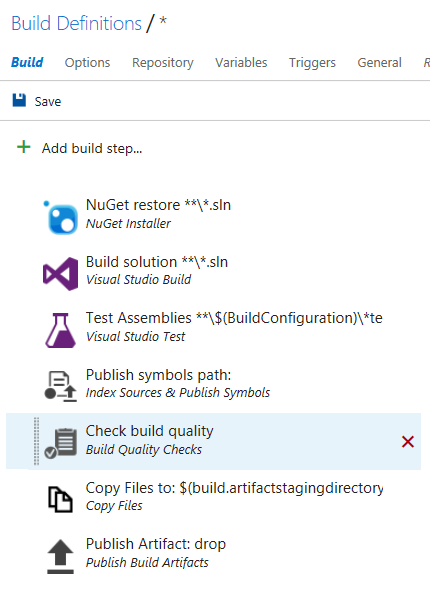
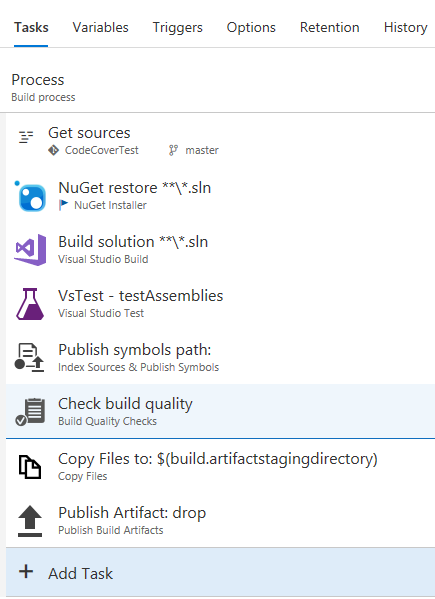
Update docs to v2.2.0

diff --git a/BuildQualityChecks/en-US/overview.md b/BuildQualityChecks/en-US/overview.md
@@ -43,6 +43,9 @@ last build that ran against the same branch as the current build. This behavior 
 
 ![Baseline Parameters](../assets/Baseline.png "Choosing baseline build definition and branch")
 
+- **Include Partially Succeeded Builds:** Uncheck this option, if policy values should only be compared to successful baseline builds.
+  In most cases, including partially succeeded builds is the best option, so you can use the default setting.
+
 - **Build Definition:** Select the build definition that should be used to search for the baseline build. If you do not set a value,
   the last build of the current build definition will be used when comparing policy values. If the drop-down list is empty, please
   click the refresh icon to reload the list of available build definitions. See

diff --git a/BuildQualityChecks/en-US/changeNotes.md b/BuildQualityChecks/en-US/changeNotes.md
@@ -2,6 +2,15 @@
 
 # Build Quality Checks - Change Notes
 
+#### 2.2.0
+- Added an option to prevent comparing policy values to partially succeeded builds.
+- Added variables to configure waiting behavior for code coverage data.
+- Updated screenshots to new build editor.
+- Removed German documentation.
+
+#### 2.1.2
+- Added internal configuration options (for support purposes).
+
 #### 2.1.1
 - Fixed extension manifest to work with latest Visual Studio Marketplace behavior.
 
